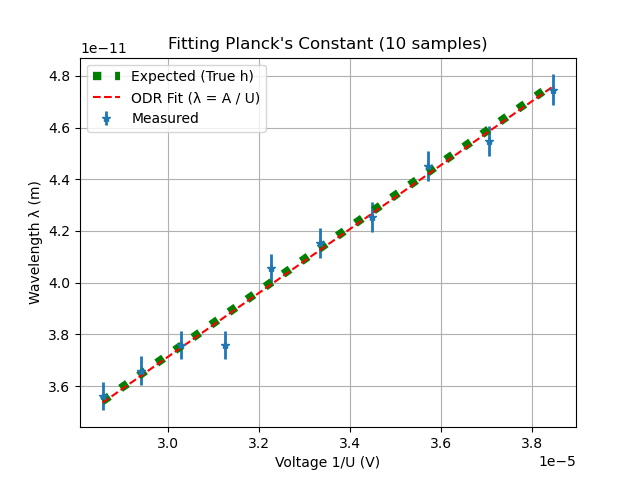
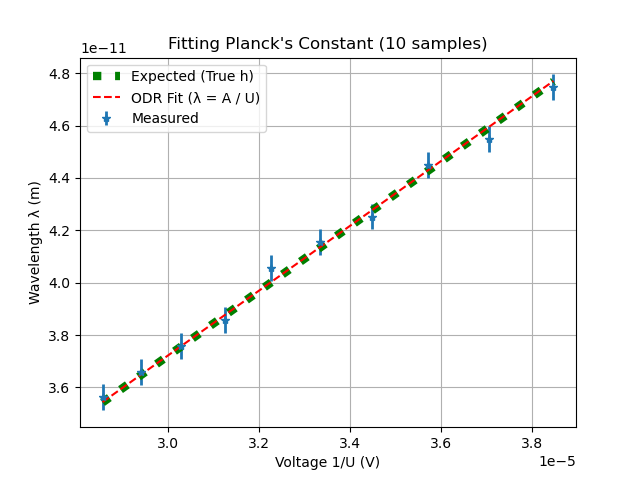
Clean code

diff --git a/main.py b/main.py
@@ -5,6 +5,7 @@ from numpy.typing import NDArray
 from pathlib import Path
 import scipy.constants as cst
 from scipy import odr
+import scipy.signal as signal
 
 # Measured data from the Laybold Didactic X-Ray apparatus
 dataPath35: str = "data/20250624_FinalMeas1_35kV_1mA.xry"
@@ -20,7 +21,6 @@ dataPath26: str = "data/20250624_FinalMeas10_26kV_1mA.xry"
 
 thetaUncertainty: float = 0.05 # Technically 0.1, but halved is better theoretically
 potentialUncertainty: float = 50 # Technically 100, but halved is better theoretically
-wavelengthUncertainty: float # Specific for each wavelength
 
 d: float = 283.6e-12 # 283.6 +- 3.9 pm -- specific for each target crystal
 dUncertainty: float = 3.9e-12
@@ -58,7 +58,7 @@ def wavelength(angle: float) -> float:
     return 2 * d * np.sin(np.radians(angle))
 
 # Fits planck constant approximation.
-def solveUncertainty(xValues: NDArray, yValues: NDArray, error) -> float:
+def solveUncertainty(xValues: NDArray, yValues: NDArray, error: list) -> (float, float):
     """`solveUncertainty` fits the measured data to approximate planck constant slope."""
     
     # Slope Model
@@ -68,7 +68,7 @@ def solveUncertainty(xValues: NDArray, yValues: NDArray, error) -> float:
     initial = np.array([cst.Planck * cst.speed_of_light / cst.elementary_charge])
 
     # ODR models
-    data = odr.RealData(xValues, yValues, sx=potentialUncertainty, sy=error)
+    data = odr.RealData(xValues, yValues, sx=np.array(error[0]), sy=np.array(error[1]))
     model = odr.Model(model)
 
     odrSetup = odr.ODR(data, model, beta0=initial)
@@ -85,10 +85,18 @@ def solveUncertainty(xValues: NDArray, yValues: NDArray, error) -> float:
     return [output.beta * cst.elementary_charge / cst.speed_of_light, output.sd_beta * cst.elementary_charge / cst.speed_of_light]
 
 # Finds the start of the brehmsstrahlung continuum i.e. the highest energy lambda
-def findMinLambda(angles: NDArray, intensity: NDArray) -> (int, float):
+def findMinLambda(angles: NDArray, intensity: NDArray) -> float:
     """`findMinLambda` finds the start of the brehmsstrahlung continuum i.e. the highest energy lambda"""
     
-    # Background value avreage that we determine to be unncecessary
+    # Smoothing parameters
+    # n = len(intensity)
+    # window_length = min(9, n if n % 2 == 1 else n - 1) # Picking an odd large enough number to smooth out the noisiness
+    # polyorder = 2 if window_length > 2 else 1 # Cant be larger than the windoww length
+
+    # # Smooth measured intensity
+    # smoothed = signal.savgol_filter(intensity, window_length=window_length, polyorder=polyorder)
+
+    # # Background value avreage that we determine to be unncecessary
     backgroundAverage: float = 4.5
 
     # Standard deviation of the first 10 angle intensities in the sample
@@ -105,16 +113,19 @@ def findMinLambda(angles: NDArray, intensity: NDArray) -> (int, float):
     # Range over all angles
     for idx, angle in enumerate(angles):
         # Reject low values
-        if np.fabs(intensity[idx - 1] - intensity[idx - 2]) < continuumMinValue and idx != 0:
+        if intensity[idx - 1] - intensity[idx - 2] < continuumMinValue:
             continue
 
         # Reject background same ish values
         if intensity[idx] <= backgroundAverage:
             continue
 
-        return idx, wavelength(angle)
+        return wavelength(angle)
     
-    return 0, 0
+    return 0
+
+def findInversePotentialUncertainty(potential) -> float:
+    return np.fabs(1 / (potential + potentialUncertainty) - 1 / (potential - potentialUncertainty)) / 2
 
 # Compute wavelength specific uncertainty.
 def findWavelengthUncertainty(theta) -> float:
@@ -129,14 +140,13 @@ def findWavelengthUncertainty(theta) -> float:
     return uncertainty
 
 # Compute parameters fro planck graphing for all samples.
-def computePlanckParameters(samples: list[str]) -> (NDArray, NDArray, NDArray):
+def computePlanckParameters(samples: list[str]) -> (NDArray, NDArray):
     """`computePlanckParameters` finds all needed parameters to successfully plot the planck constant for all samples."""
     
     # Final return values
     potentials: list[float] = []
     wavelengths: list[float] = []
-    wavelengthUncertainties: list[float] = []
-    idx = 0
+
     # Try all samples
     for sample in samples:
         # Get voltage from the saved filepath name i.e. data/some_data_35.xry -> voltage = 35
@@ -151,16 +161,12 @@ def computePlanckParameters(samples: list[str]) -> (NDArray, NDArray, NDArray):
         xValues += systematicAngleError
 
         # Lambda min i.e. highest energy
-        angleIdx, minLambda = findMinLambda(xValues, yValues)
-        
-        # Specific lambda uncertainty
-        lambdaUncertainty = findWavelengthUncertainty(xValues[angleIdx])
+        minLambda = findMinLambda(xValues, yValues)
 
         potentials.append(potential)
         wavelengths.append(minLambda)
-        wavelengthUncertainties.append(lambdaUncertainty)
 
-    return np.array(potentials), np.array(wavelengths), np.array(wavelengthUncertainties)
+    return np.array(potentials), np.array(wavelengths)
 
 # Main experiment entry point.
 def main() -> None:
@@ -168,10 +174,18 @@ def main() -> None:
     samples: list[str] = [dataPath35, dataPath34, dataPath33, dataPath32, dataPath31, dataPath30, dataPath29, dataPath28, dataPath27, dataPath26]
 
     # Planck parameters
-    potentials, wavelengths, wavelengthUncertainties = computePlanckParameters(samples)
+    potentials, wavelengths = computePlanckParameters(samples)
+
+    potentialsError = []
+    for potential in potentials:
+        potentialsError.append(findInversePotentialUncertainty(potential))
+
+    waveLengthsError = []
+    for wavelength in wavelengths:
+        waveLengthsError.append(findWavelengthUncertainty(wavelength))
 
     # Fitted planck constant
-    planck, error = solveUncertainty(potentials, wavelengths, wavelengthUncertainties)
+    planck, error = solveUncertainty(potentials, wavelengths, [potentialsError, waveLengthsError])
 
     print("planck constant after odr: ", planck)
     print("planck constant error: ", error)
@@ -180,7 +194,7 @@ def main() -> None:
     potentials = 1.0 / potentials
 
     # All points of the measured data
-    plt.errorbar(potentials, wavelengths, yerr=wavelengthUncertainties, fmt="*", label='Measured', linewidth=2)
+    plt.errorbar(potentials, wavelengths, yerr=waveLengthsError, fmt="*", label='Measured', linewidth=2)
 
     # Actual planck constant slope
     plt.plot(potentials, (cst.Planck * cst.speed_of_light / cst.elementary_charge) * potentials, label='Expected (True h)', color='green', linestyle=':', linewidth=6)
